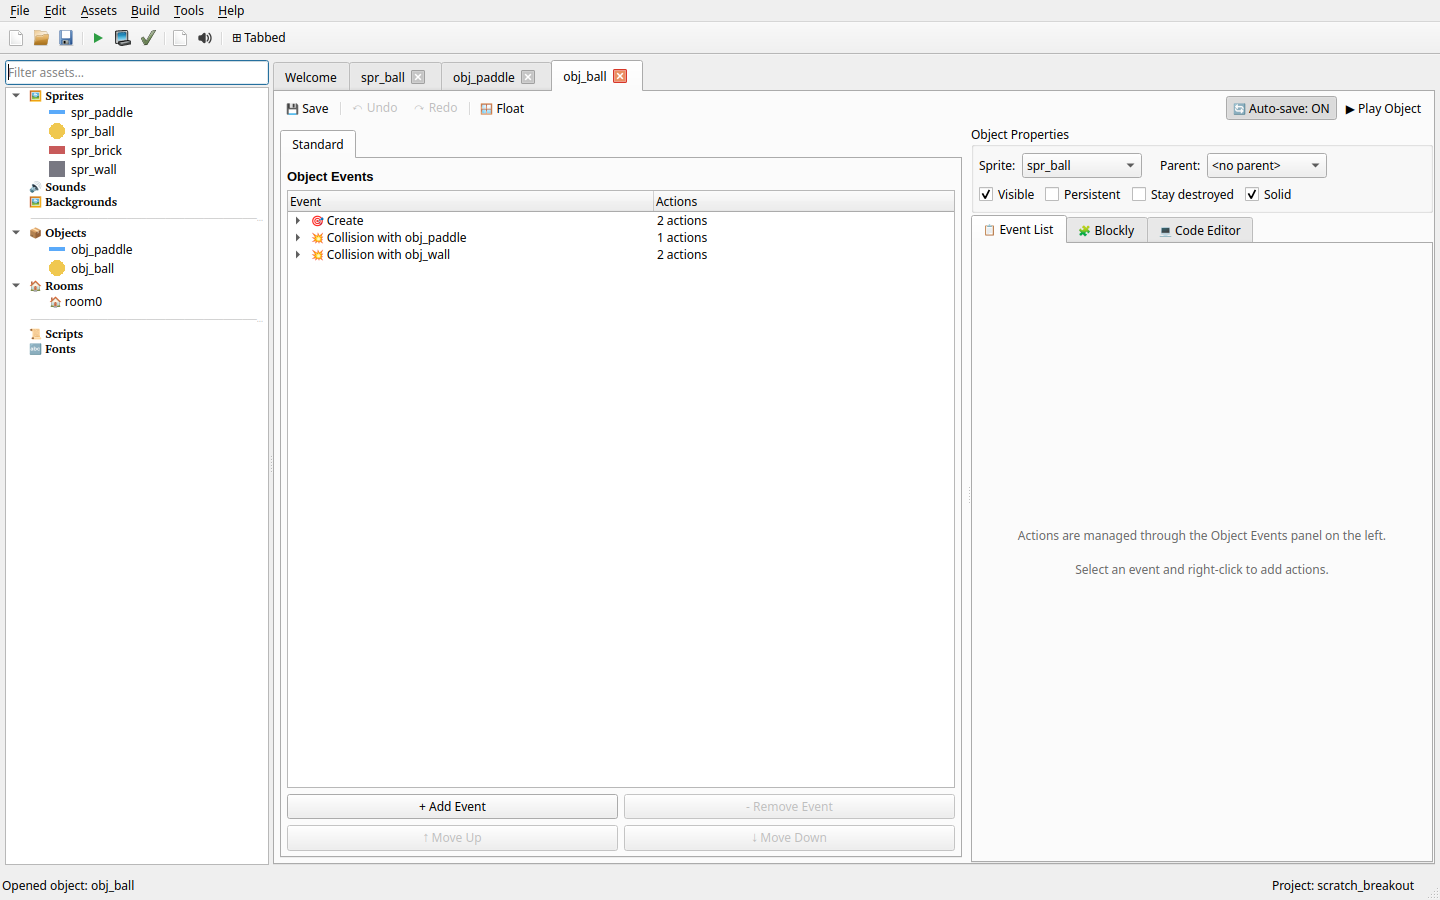
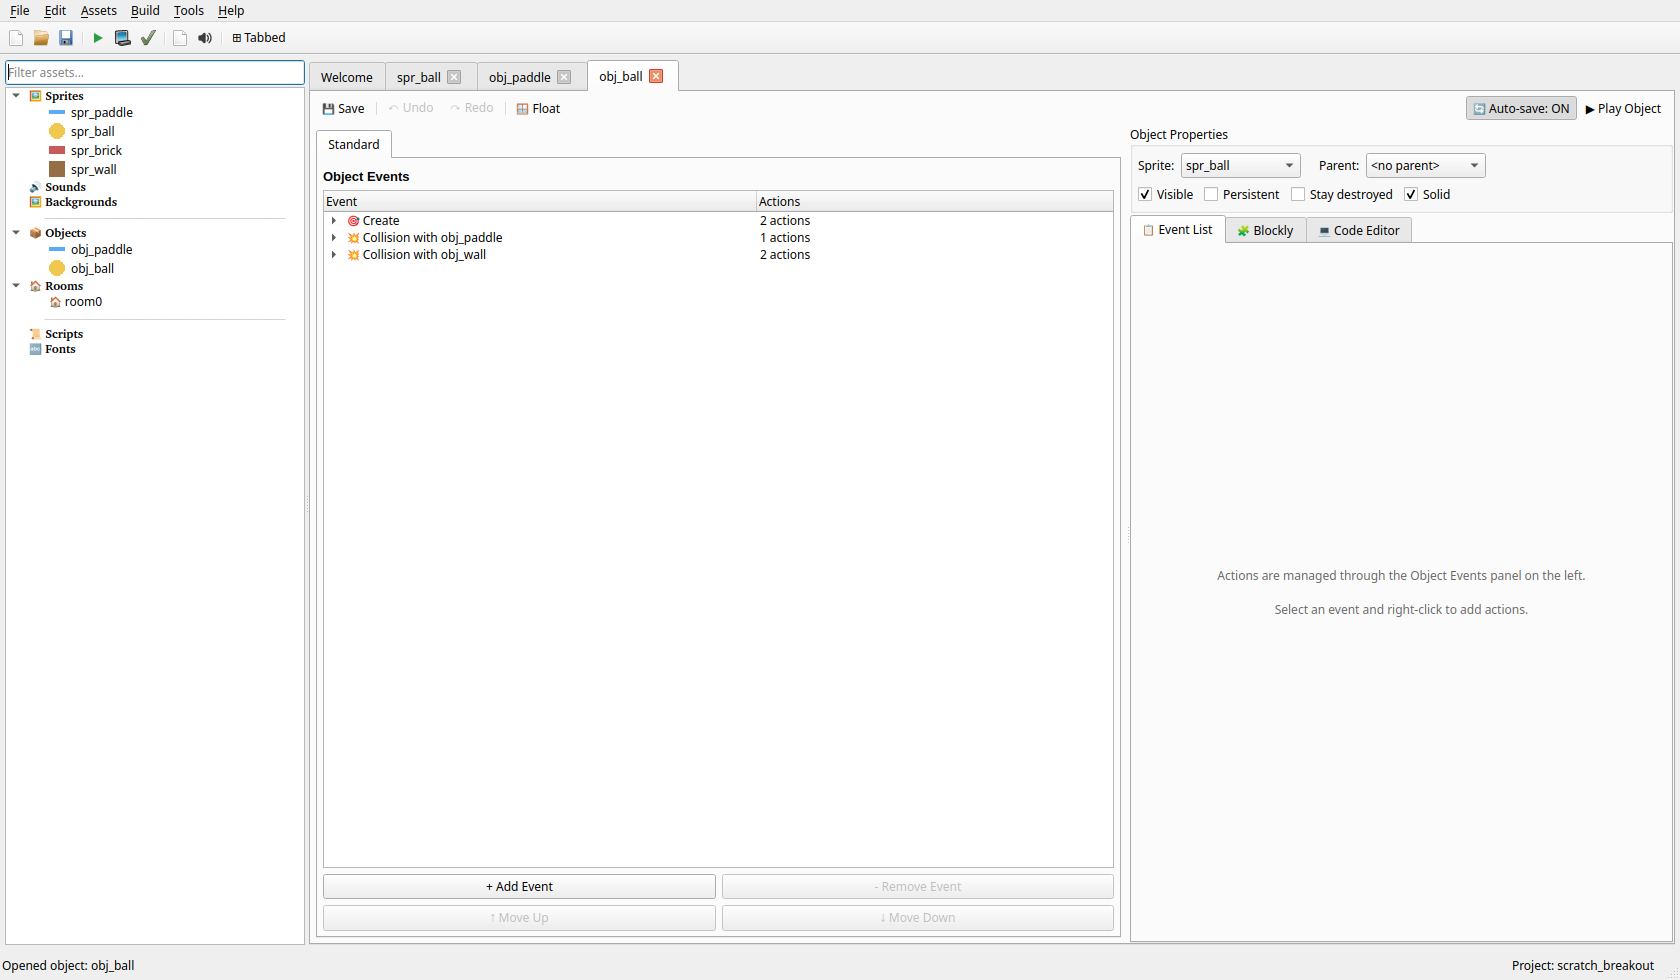
docs(wiki): wider capture window + non-grey placeholder walls; regen Breakout shots
Two capture-tool default changes, ahead of doing the remaining five
tutorials:

- WINDOW_SIZE 1440x900 -> 1680x980. A 640x480-ish tutorial room is wider
  than the room editor's scroll viewport at the old width, so a
  full-window ide.grab() silently clipped the room's right edge out of
  frame. Pong's room needs the extra width.
- Placeholder wall/goal sprites are no longer neutral grey. A grey wall
  row (150,150,150) is nearly indistinguishable from the IDE's own grey
  chrome in a full-window screenshot -- the Phase 1 Breakout room shot's
  walls were rendering, they just read as "window border". Walls are now
  a warm tan. Verified by pixel-probing the saved PNGs.

Regenerated the six Tutorial-Breakout screenshots against both new
defaults; the markdown embeds and captions are unchanged (the room
caption now actually matches what's visible). Also adds the capture_pong
scenario used by the next commit.

diff --git a/tools/capture_tutorial_screenshots.py b/tools/capture_tutorial_screenshots.py
@@ -43,7 +43,10 @@ REPO_ROOT = Path(__file__).resolve().parent.parent
 sys.path.insert(0, str(REPO_ROOT))
 
 IMAGES_DIR = REPO_ROOT / "wiki" / "images"
-WINDOW_SIZE = (1440, 900)
+# Wide enough that the room editor's scroll viewport (roughly window_width
+# minus ~970px of side panels) fully contains a 640x480-ish tutorial room --
+# a narrower window clips the room's right edge out of a full-window grab.
+WINDOW_SIZE = (1680, 980)
 
 
 def _make_app():
@@ -145,7 +148,10 @@ def capture_breakout():
             ("spr_paddle", (64, 16), "rect", (90, 170, 250, 255)),
             ("spr_ball", (16, 16), "circle", (240, 200, 80, 255)),
             ("spr_brick", (48, 24), "rect", (200, 90, 90, 255)),
-            ("spr_wall", (32, 32), "rect", (120, 120, 130, 255)),
+            # A warm tan rather than a neutral grey: a grey wall row reads as
+            # window chrome against the IDE's own grey panels in a full-window
+            # screenshot (found by inspecting the Phase 1 room capture).
+            ("spr_wall", (32, 32), "rect", (150, 110, 70, 255)),
         ]
         for name, size, shape, color in sprites:
             png_path = sprite_dir / f"{name}.png"
@@ -283,8 +289,226 @@ def capture_breakout():
         shutil.rmtree(scratch, ignore_errors=True)
 
 
+# ---------------------------------------------------------------------------
+# Pong (wiki/Tutorial-Pong.md) -- Phase 2, tutorial 1 of the remaining five.
+# ---------------------------------------------------------------------------
+
+def capture_pong():
+    app = _make_app()
+    ide = _make_ide(app)
+    scratch = _new_scratch_project(ide, "scratch_pong")
+    am = ide.asset_manager
+    sprite_dir = scratch / "_capture_sprites"
+    sprite_dir.mkdir(exist_ok=True)
+
+    try:
+        # -- Step 2: Create the Sprites -------------------------------------
+        # Sizes/shapes/colors straight from the tutorial's own text (2.1-2.4).
+        sprites = [
+            ("spr_ball", (16, 16), "circle", (240, 240, 240, 255)),
+            ("spr_paddle_left", (16, 64), "rect", (90, 140, 240, 255)),
+            ("spr_paddle_right", (16, 64), "rect", (220, 90, 90, 255)),
+            # Warm tan, not neutral grey -- a grey wall blends into the IDE's
+            # own grey chrome in a full-window screenshot.
+            ("spr_wall", (32, 32), "rect", (150, 110, 70, 255)),
+            # The goal is invisible in-game (the tutorial says so); a
+            # translucent green here just makes the placement legible in the
+            # Room Editor screenshot.
+            ("spr_goal", (32, 32), "rect", (80, 180, 140, 110)),
+        ]
+        for name, size, shape, color in sprites:
+            png_path = sprite_dir / f"{name}.png"
+            _sprite_png(png_path, size, shape, color)
+            asset_data = am.import_asset(png_path, "sprites", name)
+            if asset_data is None:
+                raise RuntimeError(f"failed to import sprite {name!r}")
+        _sync(ide)
+        ide.open_sprite_editor("spr_ball", am.get_asset("sprites", "spr_ball"))
+        _capture(ide, app, "tutorial-pong-02-sprites.png")
+
+        # -- Step 3: Create the Wall Object ----------------------------------
+        am.create_asset("obj_wall", "objects", sprite="spr_wall",
+                        solid=True, visible=True, events={})
+        _sync(ide)
+        ide.open_object_editor("obj_wall", am.get_asset("objects", "obj_wall"))
+        _capture(ide, app, "tutorial-pong-03-wall-object.png")
+
+        # -- Step 4: Create the Paddle Objects --------------------------------
+        def paddle_events(up_key, down_key):
+            return {
+                "keyboard": {
+                    up_key: {"actions": [
+                        {"action": "set_vspeed", "parameters": {"speed": "-8"}},
+                    ]},
+                    down_key: {"actions": [
+                        {"action": "set_vspeed", "parameters": {"speed": "8"}},
+                    ]},
+                },
+                "keyboard_release": {
+                    up_key: {"actions": [
+                        {"action": "set_vspeed", "parameters": {"speed": "0"}},
+                    ]},
+                    down_key: {"actions": [
+                        {"action": "set_vspeed", "parameters": {"speed": "0"}},
+                    ]},
+                },
+                "collision_with_obj_wall": {"actions": [
+                    {"action": "bounce", "parameters": {}},
+                ]},
+            }
+
+        # 4.1 Left Paddle (Player 1): W / S.
+        am.create_asset("obj_paddle_left", "objects", sprite="spr_paddle_left",
+                        solid=True, visible=True,
+                        events=paddle_events("w", "s"))
+        # 4.2 Right Paddle (Player 2): Up / Down arrows.
+        am.create_asset("obj_paddle_right", "objects", sprite="spr_paddle_right",
+                        solid=True, visible=True,
+                        events=paddle_events("up", "down"))
+        _sync(ide)
+        ide.open_object_editor("obj_paddle_left", am.get_asset("objects", "obj_paddle_left"))
+        _capture(ide, app, "tutorial-pong-04-paddle-objects.png")
+
+        # -- Step 5: Create the Ball Object -----------------------------------
+        ball_events = {
+            "create": {"actions": [
+                {"action": "start_moving_direction", "parameters": {
+                    "directions": ["down-right"], "direction_expr": "", "speed": 6.0,
+                }},
+            ]},
+            "collision_with_obj_paddle_left": {"actions": [
+                {"action": "bounce", "parameters": {}},
+            ]},
+            "collision_with_obj_paddle_right": {"actions": [
+                {"action": "bounce", "parameters": {}},
+            ]},
+            "collision_with_obj_wall": {"actions": [
+                {"action": "bounce", "parameters": {}},
+            ]},
+        }
+        am.create_asset("obj_ball", "objects", sprite="spr_ball",
+                        solid=False, visible=True, events=ball_events)
+        _sync(ide)
+        ide.open_object_editor("obj_ball", am.get_asset("objects", "obj_ball"))
+        _capture(ide, app, "tutorial-pong-05-ball-object.png")
+
+        # -- Step 6: Create the Goal Objects ------------------------------------
+        am.create_asset("obj_goal_left", "objects", sprite="spr_goal",
+                        solid=True, visible=False, events={})
+        am.create_asset("obj_goal_right", "objects", sprite="spr_goal",
+                        solid=True, visible=False, events={})
+        # 6.3: the goal-collision events go on obj_ball -- p2 scores when the
+        # ball reaches the LEFT goal, p1 scores on the RIGHT goal.
+        ball_asset = am.get_asset("objects", "obj_ball")
+        ball_asset["events"]["collision_with_obj_goal_left"] = {"actions": [
+            {"action": "jump_to_start", "parameters": {}},
+            {"action": "set_variable", "parameters": {
+                "variable": "p2score", "value": "1", "scope": "global", "relative": True,
+            }},
+        ]}
+        ball_asset["events"]["collision_with_obj_goal_right"] = {"actions": [
+            {"action": "jump_to_start", "parameters": {}},
+            {"action": "set_variable", "parameters": {
+                "variable": "p1score", "value": "1", "scope": "global", "relative": True,
+            }},
+        ]}
+        _sync(ide)
+        # The goal objects themselves have no events -- what this step is
+        # really teaching is the scoring logic just added to obj_ball above,
+        # so that's what's worth showing here (matching the step's own
+        # emphasis, not just the two newly-created empty objects).
+        ide.open_object_editor("obj_ball", am.get_asset("objects", "obj_ball"))
+        _capture(ide, app, "tutorial-pong-06-goal-objects.png")
+
+        # -- Step 7: Create the Score Display Object ------------------------------
+        score_events = {
+            "create": {"actions": [
+                {"action": "set_variable", "parameters": {
+                    "variable": "p1score", "value": "0", "scope": "global", "relative": False,
+                }},
+                {"action": "set_variable", "parameters": {
+                    "variable": "p2score", "value": "0", "scope": "global", "relative": False,
+                }},
+            ]},
+            "draw": {"actions": [
+                {"action": "draw_text", "parameters": {
+                    "text": "\"Player 1:\"", "x": "10", "y": "10",
+                }},
+                {"action": "draw_variable", "parameters": {
+                    "variable": "global.p1score", "x": "100", "y": "10",
+                }},
+                {"action": "draw_text", "parameters": {
+                    "text": "\"Player 2:\"", "x": "10", "y": "30",
+                }},
+                {"action": "draw_variable", "parameters": {
+                    "variable": "global.p2score", "x": "100", "y": "30",
+                }},
+            ]},
+        }
+        am.create_asset("obj_score", "objects", sprite=None,
+                        solid=False, visible=True, events=score_events)
+        _sync(ide)
+        ide.open_object_editor("obj_score", am.get_asset("objects", "obj_score"))
+        _capture(ide, app, "tutorial-pong-07-score-object.png")
+
+        # -- Step 8: Design the Room ----------------------------------------------
+        CELL = 32
+        COLS, ROWS = 20, 15
+        room_w, room_h = COLS * CELL, ROWS * CELL   # 640 x 480, per 8.2
+
+        def cell_center(col, row):
+            return col * CELL + CELL // 2, row * CELL + CELL // 2
+
+        instances = []
+
+        def place(obj, col, row):
+            x, y = cell_center(col, row)
+            instances.append({
+                "object_name": obj, "x": x, "y": y, "rotation": 0,
+                "scale_x": 1.0, "scale_y": 1.0, "visible": True,
+            })
+
+        # Walls: top and bottom rows, per the tutorial's own room layout
+        # diagram.
+        for col in range(COLS):
+            place("obj_wall", col, 0)
+            place("obj_wall", col, ROWS - 1)
+
+        # Goals: left and right edges, behind where each paddle sits.
+        for row in range(1, ROWS - 1):
+            place("obj_goal_left", 0, row)
+            place("obj_goal_right", COLS - 1, row)
+
+        # Paddles: near the left/right edges, centered vertically -- single
+        # instances (the sprite itself is the full 64px-tall paddle, not a
+        # per-cell tile like the walls/goals).
+        place("obj_paddle_left", 2, ROWS // 2)
+        place("obj_paddle_right", COLS - 3, ROWS // 2)
+
+        # Ball: center of the room -- safe here (no bricks/other objects
+        # occupy the center cell in this layout, unlike Breakout's).
+        place("obj_ball", COLS // 2, ROWS // 2)
+
+        # Score display: position is irrelevant (no sprite -- it draws
+        # fixed-position text), placed just inside the top wall, centered.
+        place("obj_score", COLS // 2, 1)
+
+        room_data = am.create_asset(
+            "room_pong", "rooms",
+            width=room_w, height=room_h, background_color="#0a0a12",
+            instances=instances)
+        _sync(ide)
+        ide.open_room_editor("room_pong", room_data)
+        _capture(ide, app, "tutorial-pong-08-room.png")
+
+        print("Pong capture complete.")
+    finally:
+        shutil.rmtree(scratch, ignore_errors=True)
+
+
 SCENARIOS = {
     "breakout": capture_breakout,
+    "pong": capture_pong,
 }
 
 

diff --git a/docs/WIKI_TUTORIAL_SCREENSHOTS_PLAN.md b/docs/WIKI_TUTORIAL_SCREENSHOTS_PLAN.md
@@ -151,10 +151,26 @@ the open gap between the brick rows and the paddle.
 
 **Shipped**: `wiki/images/tutorial-breakout-{01-sprites,
 02-paddle-object, 03-ball-object, 04-brick-object, 05-wall-object,
-06-room}.png` (6 screenshots, ~524 KB total), embedded into
+06-room}.png` (6 screenshots), embedded into
 `wiki/Tutorial-Breakout.md` at the end of each corresponding "## Step N"
-section. `Tutorial-Breakout_fr.md` and the other 5 tutorials are
-untouched — see "Suggested phase breakdown" below for what's next.
+section.
+
+**Phase 2 kickoff (2026-09-10) refined two capture-tool defaults; the
+Breakout shots were regenerated to match:**
+
+- **Window is now 1680×980, not 1440×900.** A 640×480-ish tutorial room
+  is wider than the room editor's scroll viewport at the old width, so a
+  full-window `ide.grab()` silently clipped the room's right edge (right
+  wall column, right goal column) out of the frame. Pong's room needs the
+  extra width; the others likely will too.
+- **Placeholder wall/goal sprites are no longer neutral grey.** A grey
+  wall row (150,150,150) is nearly indistinguishable from the IDE's own
+  grey chrome in a full-window screenshot — the walls *were* rendering in
+  the Phase 1 Breakout room shot, they just read as "window border". Walls
+  are now a warm tan; Pong's invisible goals a translucent green (with a
+  caption noting they're invisible in-game). Verified by pixel-probing the
+  saved PNGs, not just eyeballing the downscaled preview (which is exactly
+  what hid the problem the first time).
 
 ## Suggested phase breakdown
 
